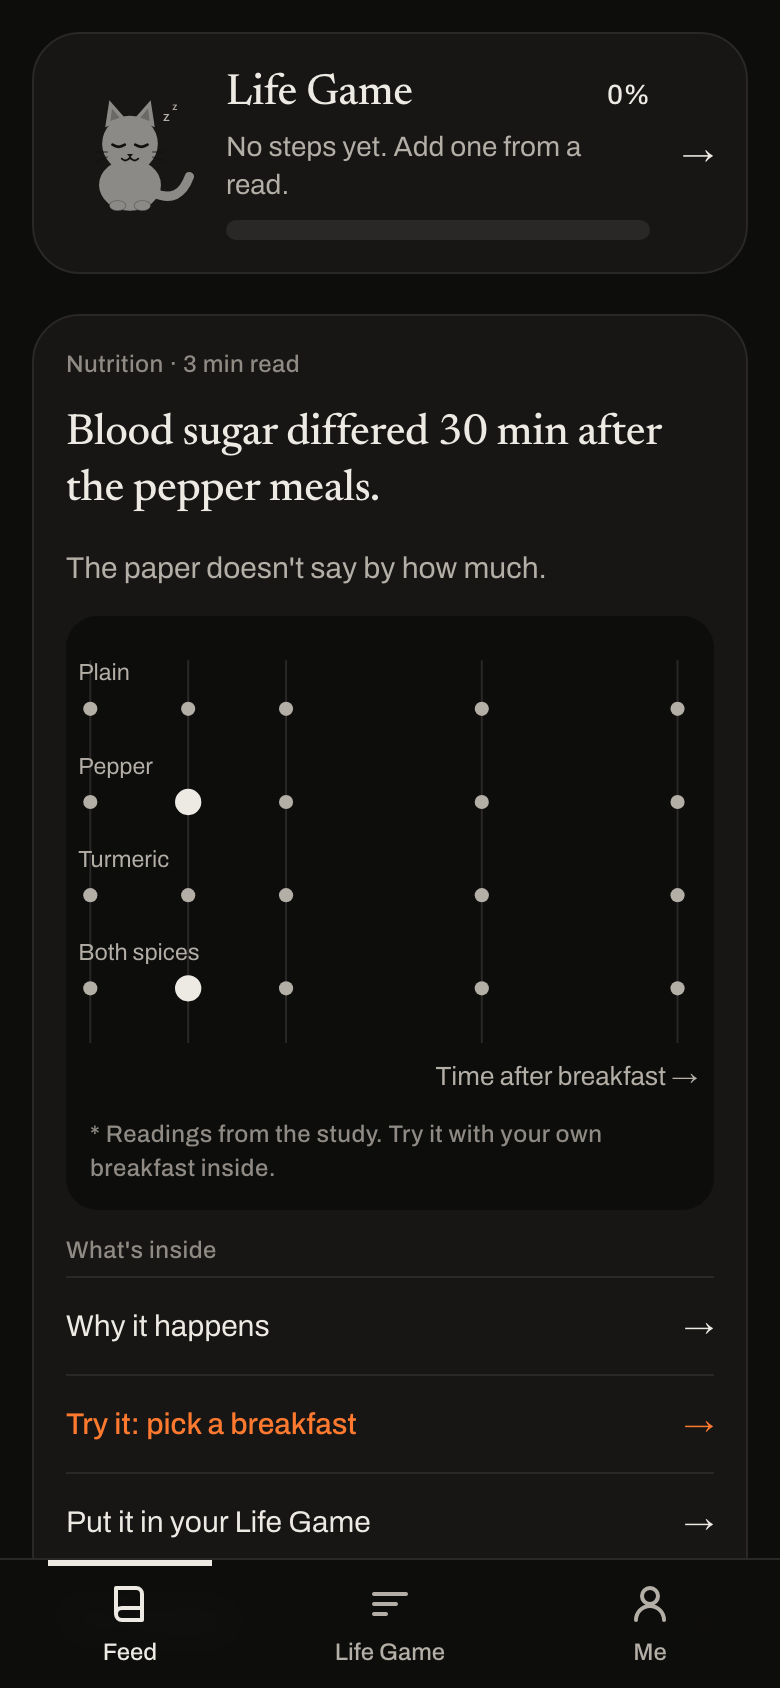
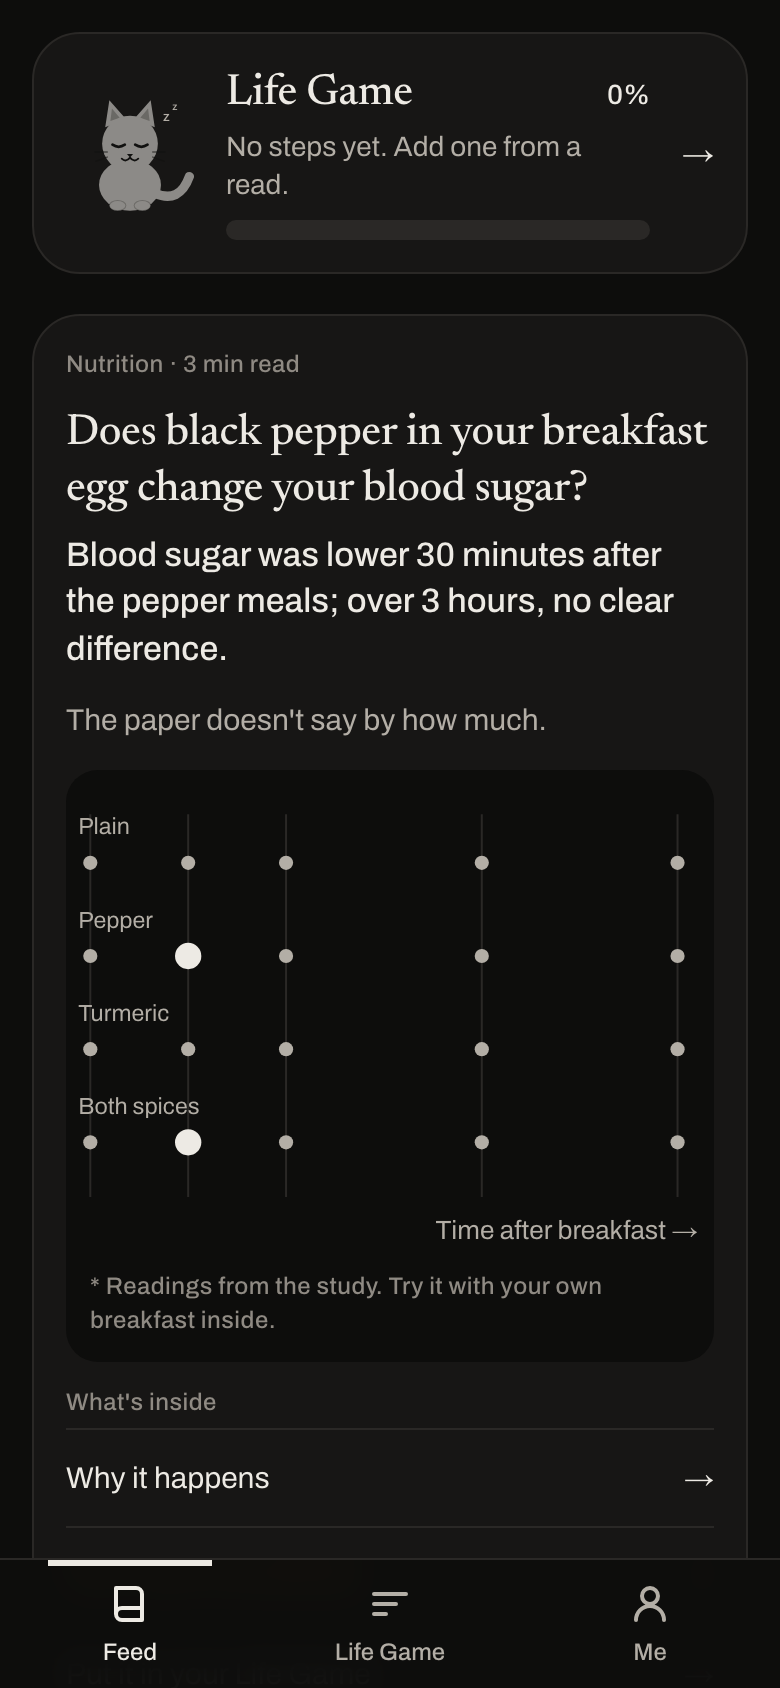
Concepts for the sketches: adenosine, post-meal blood sugar, fat-free mass (unreviewed)
- Three concept files, reviewed_by_owner false, no digits; each passes the concept checks.
- References checked against Crossref and doi.org (docs/evidence/themes/concept-references.txt).
- Theme screenshots refreshed with the question headlines.

diff --git a/docs/BUILD-LOG.md b/docs/BUILD-LOG.md
@@ -1423,3 +1423,16 @@ number. The simulator labels it by kind and never converts SD to CI or the rever
   (`lib/pipeline/sketch-lint.test.ts`), and a source guard: a component with "sketch" in its name
   may not use an orange token (`scripts/visual-system.test.ts`). `DOT` stroke added to
   `components/figures/shared.ts`.
+
+## 2026-11-15, Concepts for the sketches (written, not approved)
+
+- Item 5. `content/concepts/adenosine.json`, `post-meal-blood-sugar.json`, `fat-free-mass.json`,
+  each `reviewed_by_owner: false`; no digits; each passes the concept checks in `npm run
+  content:build` ("ok, NOT REVIEWED"). No read cites them yet, so the generated files are unchanged.
+- References checked against Crossref, each DOI resolving at doi.org
+  (`docs/evidence/themes/concept-references.txt`): Porkka-Heiskanen et al., Science 1997
+  (adenosine builds up with wakefulness); Freckmann et al., J Diabetes Sci Technol 2007 (glucose
+  after meals in healthy people); Wang, Pierson, Heymsfield, Am J Clin Nutr 1992 (the five-level
+  body-composition model: fat and fat-free mass).
+- The adenosine concept describes the build-up only. That caffeine blocks the dock is the
+  caffeine paper's own sentence (`adenosine_block`), drawn dashed as the authors' idea.

diff --git a/docs/PROGRESS.md b/docs/PROGRESS.md
@@ -142,7 +142,9 @@ Decisions and their reasons go in `BUILD-LOG.md`; this file is only the checklis
         search-the-build 0 matches (`docs/evidence/themes/gates-item3.txt`).
   - [x] 4. Sketch rule + rulings R1–R7 in the docs; `lib/content/sketch.ts`, 19 failing fixtures +
         a source guard. BUILD-LOG 2026-11-15.
-  - [ ] IN PROGRESS: 5. Concepts: adenosine, post-meal-blood-sugar, fat-free-mass (unreviewed).
+  - [x] 5. Concepts adenosine, post-meal-blood-sugar, fat-free-mass written (not approved);
+        references resolve (`docs/evidence/themes/concept-references.txt`).
+  - [ ] ⏸ Stop: hashes, contrast table, theme screenshots, 4 headlines, 3 concepts' plain text; /phase-handoff.
 - [ ] The pipeline proposes the figure kind and the simulator inputs (`prompts.ts`).
 - [ ] Reader inputs stored on the device only (like the theme).
 - [ ] Run the coverage pass on the 4 existing papers, so their checklist rows stop showing
